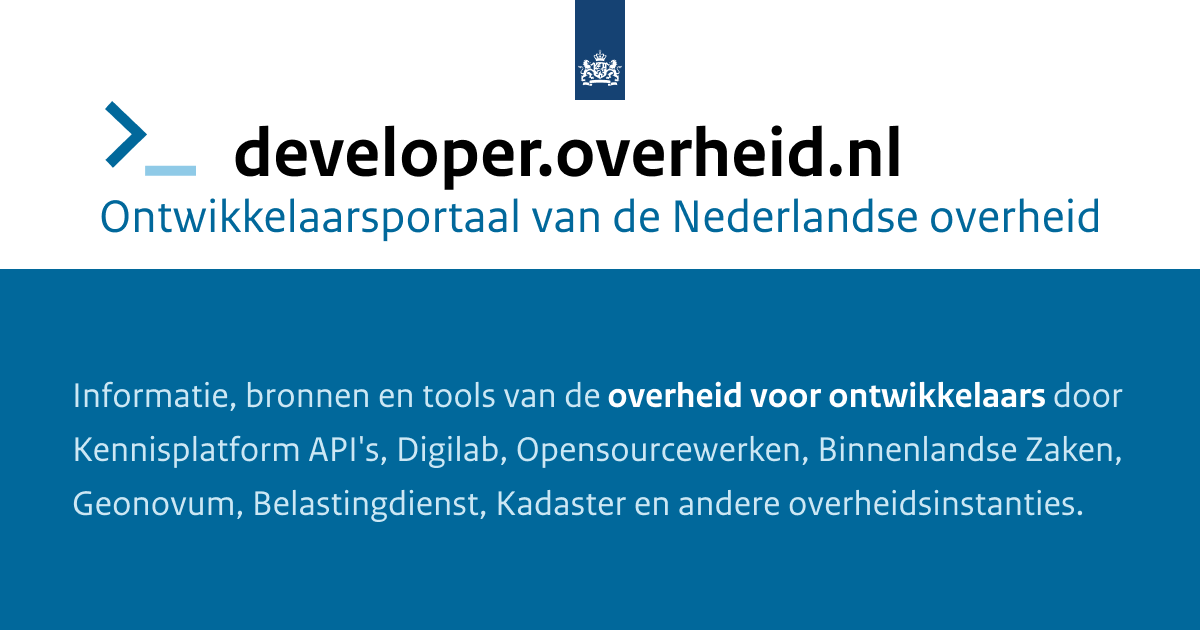
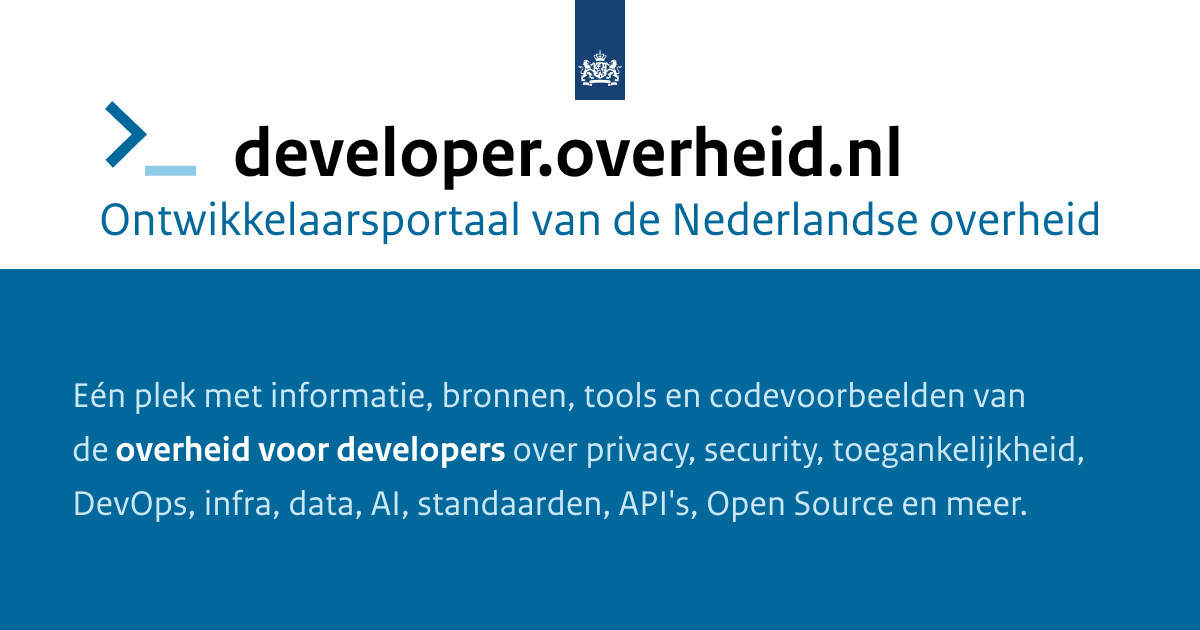
New social card

diff --git a/src/pages/index.tsx b/src/pages/index.tsx
@@ -35,7 +35,7 @@ function HomepageHeader() {
       ></script>
       <div className="container">
         <p className={styles.intro}>
-          Eén plek met informatie, bronnen, tools en codevoorbeelden van de <strong className={styles.intro__highlight}>overheid voor developers</strong> over 
+          Eén plek met informatie, bronnen, tools en codevoorbeelden van de&nbsp;<strong className={styles.intro__highlight}>overheid voor developers</strong> over 
           privacy, security, toegankelijkheid, DevOps, infra, data, AI, standaarden, API's, Open Source en meer.
         </p>
         {
